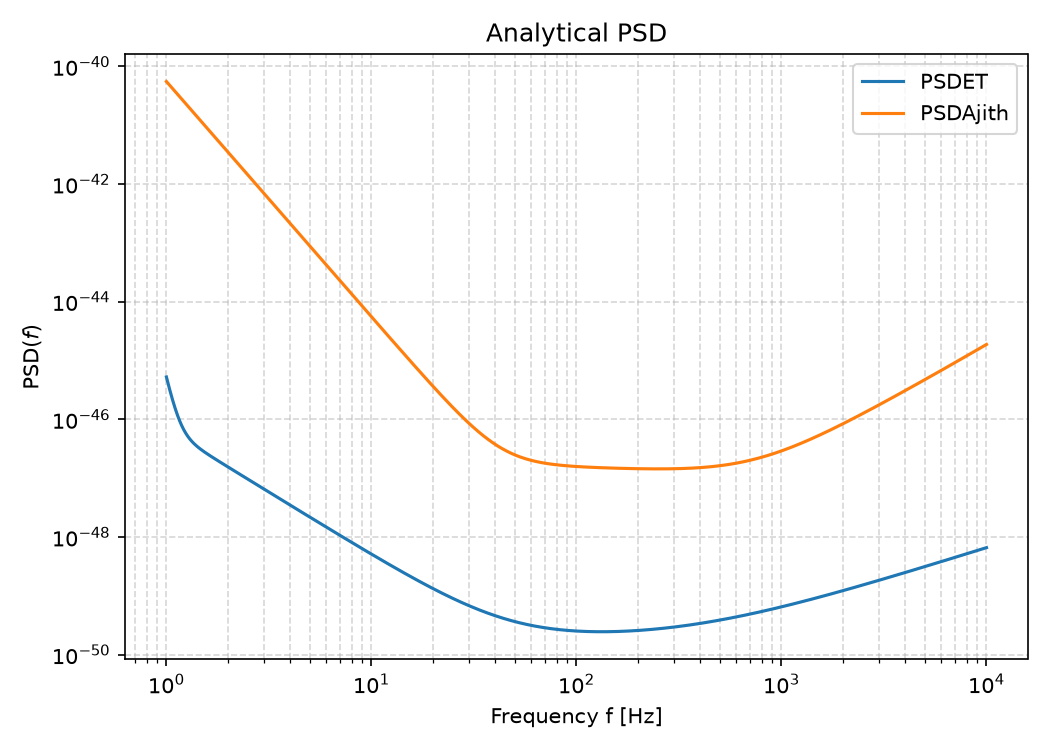
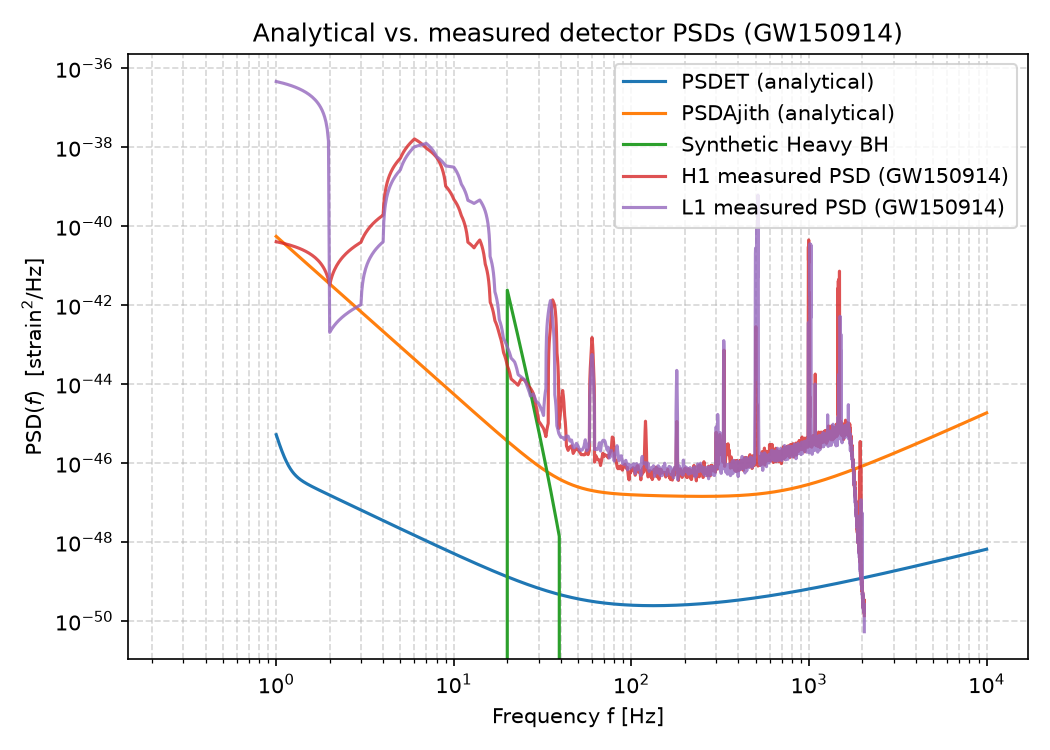
Added ploting of PSD+GW15+HeavyBH

Changed region(s): [[0.0, 0.0307, 0.9752, 0.9813]]

diff --git a/Project/Analytical.py b/Project/Analytical.py
@@ -49,6 +49,8 @@ import numpy as np
 from pycbc.catalog import Merger
 from pycbc.filter import highpass_fir, lowpass_fir
 from pycbc.psd import welch, interpolate
+from pycbc.waveform import get_td_waveform, get_fd_waveform, td_approximants, fd_approximants
+
 
 # ---------------------------------------------------------------------
 # Section 1: "3.5 PN Non - Spinning Waveform"
@@ -314,17 +316,45 @@ if __name__ == "__main__":
     psd_et_vals = PSDET_numpy(freqs)
     psd_aijth_vals = PSDAjith_numpy(freqs)
 
+    # synthetic waveform from pycbc
+    hp_synth, hc_synth = get_fd_waveform(
+    approximant="IMRPhenomD",
+    mass1=1000, mass2=26,       # GW150914-like masses (100+100 was solar-mass BHs, not really "SMBH")
+    delta_f=1.0 / 4,
+    f_lower=20,
+    f_final=1024,
+)
+    # For simplicity i assume hp_synth and hc_synth obey basic pitagorean theorem
+    h_net_synth = abs(hp_synth)**2 + abs(hc_synth)**2
+    freqs_synth = h_net_synth.sample_frequencies.numpy()
 
 
 
+    # --- measured GW150914 noise PSD (Welch estimate), one curve per IFO --
+    measured_psds = {}
+    for ifo in ['H1', 'L1']:
+        strain = Merger("GW150914").strain(ifo)
+        strain = highpass_fir(strain, 15, 8)
+        psd = interpolate(welch(strain), 1.0 / strain.duration)
+        measured_psds[ifo] = psd
+
+    # --- single combined figure --------------------------------------------
     fig, ax = plt.subplots(figsize=(7, 5))
-    ax.loglog(freqs, psd_et_vals, label="PSDET")
-    ax.loglog(freqs, psd_aijth_vals, label="PSDAjith")
+    ax.loglog(freqs, psd_et_vals, label="PSDET (analytical)")
+    ax.loglog(freqs, psd_aijth_vals, label="PSDAjith (analytical)")
+    ax.loglog(freqs_synth, h_net_synth, label="Synthetic Heavy BH")
+
+    for ifo, psd in measured_psds.items():
+        # restrict to the same frequency window for a fair comparison
+        mask = (psd.sample_frequencies.numpy() >= 1) & (psd.sample_frequencies.numpy() <= 1e4)
+        ax.loglog(psd.sample_frequencies.numpy()[mask], psd.numpy()[mask],
+                  label=f"{ifo} measured PSD (GW150914)", alpha=0.8)
+
     ax.set_xlabel("Frequency f [Hz]")
-    ax.set_ylabel(r"PSD$(f)$")
-    ax.set_title("Analytical PSD")
+    ax.set_ylabel(r"PSD$(f)$  [strain$^2$/Hz]")
+    ax.set_title("Analytical vs. measured detector PSDs (GW150914)")
     ax.grid(True, which="both", ls="--", alpha=0.5)
     ax.legend()
     fig.tight_layout()
     fig.savefig("PSD_plot.png", dpi=150)
-    print("saved")
+    print("saved PSD_plot.png")